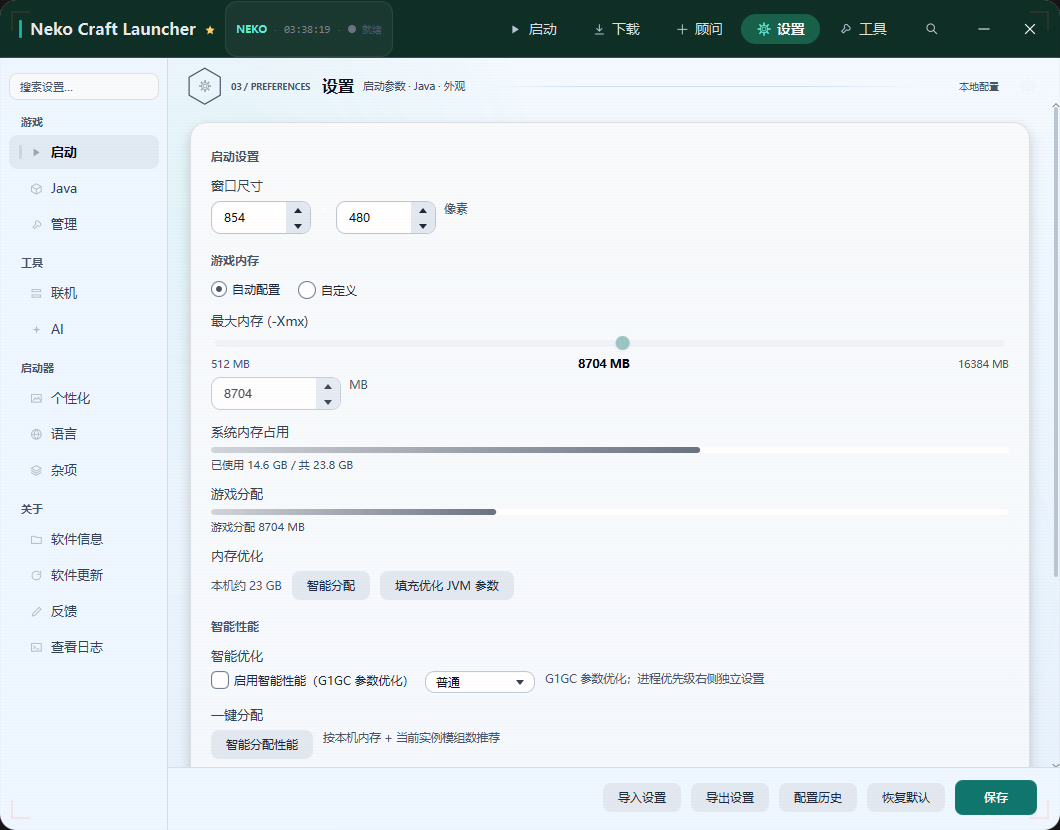
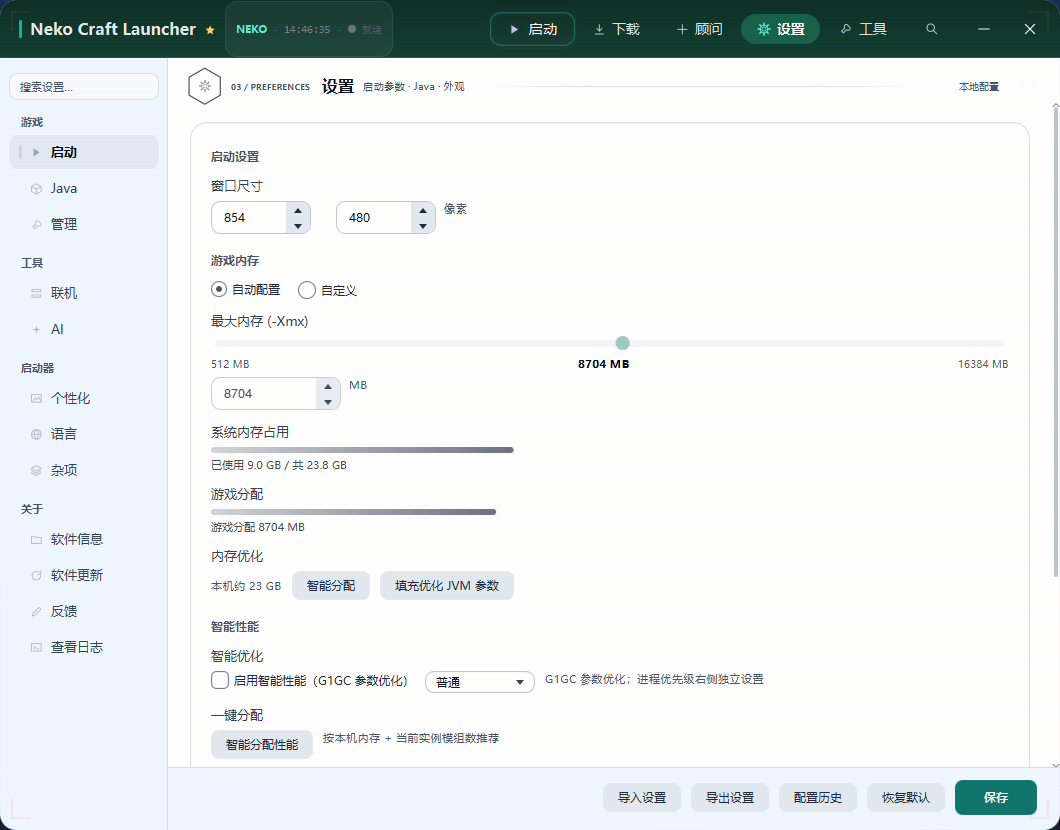
feat(ui): green top bar per theme, launch diagnosis dialog, CI green
- .app-topbar returns to the green family: dark #0b1f1a->#07130f with a #17392e
  edge, light #0e2f26->#123f33 with #1f5a46, so the two themes read differently.
  Brand mark / NEKO badge / clock reverted to the teal trio to match
- crash card now offers 日志 / 诊断 / 报告 (short labels so the narrow card does
  not truncate). 诊断 opens an InAppDialog with CrashAnalyzer's summary, log path
  and suggestion, plus 复制诊断 to put it on the clipboard
- stability: scripts\\ci.ps1 -SkipBuild -Nightly passes end to end (architecture,
  i18n 2225<=2225, smoke 5 pages hover 1272, corners 4/4, nightly baseline 0.00%);
  the baseline was refreshed first because the top bar recolour is intentional

332 tests green, AppVersion 2.37.0, installer rebuilt.

diff --git a/src/main/resources/com/example/demo/app.css b/src/main/resources/com/example/demo/app.css
@@ -499,9 +499,9 @@
 }
 /* 顶部标题栏：始终深色（含浅色模式），所以单独写死 */
 .app-topbar {
-    -fx-background-color: linear-gradient(to bottom, #b91c1c, #8f1220);
+    -fx-background-color: linear-gradient(to bottom, #0b1f1a, #07130f);
     -fx-background-radius: 16 16 0 0;
-    -fx-border-color: transparent transparent #7f1d1d transparent;
+    -fx-border-color: transparent transparent #17392e transparent;
 }
 /* 对话框：跟随主题，避免深色界面里出现白色按钮区 */
 .dialog-pane {

diff --git a/src/main/resources/com/example/demo/app-light.css b/src/main/resources/com/example/demo/app-light.css
@@ -68,9 +68,9 @@
 
 /* 顶栏始终深色 */
 .app-topbar {
-    -fx-background-color: linear-gradient(to bottom, #c62828, #991b1b);
+    -fx-background-color: linear-gradient(to bottom, #0e2f26, #123f33);
     -fx-background-radius: 16 16 0 0;
-    -fx-border-color: transparent transparent #7f1d1d transparent;
+    -fx-border-color: transparent transparent #1f5a46 transparent;
 }
 
 .text-field,

diff --git a/src/main/java/com/example/demo/ui/component/LaunchOverviewPane.java b/src/main/java/com/example/demo/ui/component/LaunchOverviewPane.java
@@ -102,10 +102,10 @@ public final class LaunchOverviewPane extends VBox {
         VBox statCard = card("运行环境", envHead, envJava, envMemory, envDisk, fixEnvButton);
         lastReason.setStyle("-fx-text-fill: #ef4444; -fx-font-size: 11px;");
         lastReason.setWrapText(true);
-        Button openLogsBtn = new Button(I18n.t("overview.openLogs", "查看日志"));
+        Button openLogsBtn = new Button(I18n.t("overview.openLogs", "日志"));
         openLogsBtn.getStyleClass().addAll("btn-ghost", "btn-sm");
         openLogsBtn.setOnAction(e -> openLogs.run());
-        Button openCrash = new Button(I18n.t("overview.openCrash", "崩溃报告"));
+        Button openCrash = new Button(I18n.t("overview.openCrash", "报告"));
         openCrash.getStyleClass().addAll("btn-ghost", "btn-sm");
         openCrash.setOnAction(e -> {
             try {
@@ -118,7 +118,10 @@ public final class LaunchOverviewPane extends VBox {
                 // 打不开就忽略
             }
         });
-        failActions.getChildren().setAll(openLogsBtn, openCrash);
+        Button diagnose = new Button(I18n.t("overview.diagnose", "诊断"));
+        diagnose.getStyleClass().addAll("btn-secondary", "btn-sm");
+        diagnose.setOnAction(e -> showDiagnosis());
+        failActions.getChildren().setAll(openLogsBtn, diagnose, openCrash);
         failActions.setVisible(false);
         failActions.setManaged(false);
         lastReason.setMaxWidth(210);
@@ -460,6 +463,45 @@ public final class LaunchOverviewPane extends VBox {
         com.example.demo.ui.shell.Toast.ok(I18n.t("overview.env.fixed", "已把内存调到 ") + target + " MB");
     }
 
+    /** 启动报错检测：把崩溃报告里的结论整理成一份可复制的诊断。 */
+    private void showDiagnosis() {
+        File gameDir = new File(config.getGameDir());
+        String text;
+        try {
+            com.example.demo.core.game.CrashAnalyzer.Report report =
+                    com.example.demo.core.game.CrashAnalyzer.analyze(gameDir);
+            text = report == null ? "没有找到崩溃报告。" : com.example.demo.core.game.CrashAnalyzer.toText(report);
+        } catch (Exception e) {
+            text = "读取崩溃报告失败：" + e.getMessage();
+        }
+        javafx.scene.control.TextArea area = new javafx.scene.control.TextArea(text);
+        area.setEditable(false);
+        area.setWrapText(true);
+        area.setPrefRowCount(12);
+        area.setStyle("-fx-font-family: 'Consolas','Microsoft YaHei',monospace; -fx-font-size: 11px;");
+        final String diagnosisText = text;
+        javafx.scene.layout.VBox box = new javafx.scene.layout.VBox(8, area);
+        box.setPrefWidth(560);
+        com.example.demo.ui.shell.InAppDialog.customSized(
+                com.example.demo.ui.shell.InAppDialog.globalHost(),
+                I18n.t("overview.diagnoseTitle", "启动报错诊断"),
+                box,
+                java.util.List.of(
+                        com.example.demo.ui.shell.InAppDialog.Action.primary(
+                                I18n.t("overview.diagnoseCopy", "复制诊断"), () -> {
+                                    javafx.scene.input.ClipboardContent content =
+                                            new javafx.scene.input.ClipboardContent();
+                                    content.putString(diagnosisText);
+                                    javafx.scene.input.Clipboard.getSystemClipboard().setContent(content);
+                                    com.example.demo.ui.shell.Toast.ok(
+                                            I18n.t("overview.diagnoseCopied", "诊断已复制到剪贴板"));
+                                }),
+                        com.example.demo.ui.shell.InAppDialog.Action.secondary(
+                                I18n.t("common.close", "关闭"), null)),
+                null,
+                600,
+                420);
+    }
     /** 从崩溃报告里提一句最关键的错误；读不到就返回空。 */
     private String crashReason(File gameDir) {
         try {

diff --git a/src/main/java/com/example/demo/ui/component/TopBar.java b/src/main/java/com/example/demo/ui/component/TopBar.java
@@ -87,7 +87,7 @@ public final class TopBar {
         Rectangle mark = new Rectangle(3.0, 18.0);
         mark.setArcWidth(3.0);
         mark.setArcHeight(3.0);
-        mark.setStyle("-fx-fill: #ffe4e6;");
+        mark.setStyle("-fx-fill: #14b8a6;");
 
         Label appTitle = new Label("Neko Craft Launcher");
         appTitle.setStyle("-fx-font-size: 16px; -fx-font-weight: bold;");
@@ -96,11 +96,11 @@ public final class TopBar {
         appTitle.setMinWidth(Region.USE_PREF_SIZE);
         Label badge = new Label("NEKO");
         badge.setStyle("-fx-font-size: 10.5px; -fx-font-weight: bold;");
-        badge.setTextFill(Color.web("#fecdd3"));
+        badge.setTextFill(Color.web("#5eead4"));
 
         Label liveClock = new Label();
         // 等宽字体优先 Consolas：Cascadia Mono 在部分机器上缺字时会退回到奇怪的字形
-        liveClock.setStyle("-fx-text-fill: #fca5a5; -fx-font-size: 10.5px;"
+        liveClock.setStyle("-fx-text-fill: #7b818b; -fx-font-size: 10.5px;"
                 + " -fx-font-family: 'Consolas', 'Cascadia Mono', monospace;"
                 + " -fx-font-smoothing-type: gray;");
         DateTimeFormatter clockFormat = DateTimeFormatter.ofPattern("HH:mm:ss");

diff --git a/src/main/java/com/example/demo/core/app/AppVersion.java b/src/main/java/com/example/demo/core/app/AppVersion.java
@@ -3,7 +3,7 @@ package com.example.demo.core.app;
 /** 版本号集中定义，安装包 / 关于页 / 更新检查共用。 */
 public final class AppVersion {
 
-    public static final String CURRENT = "2.36.0";
+    public static final String CURRENT = "2.37.0";
 
     private AppVersion() {
     }

diff --git a/docs/RELEASE-2.37.0.md b/docs/RELEASE-2.37.0.md
@@ -1,0 +1,81 @@
+# Neko Craft Launcher 2.37.0
+
+> 顶栏回到原来的绿色系（深色/浅色各一套灰阶），启动报错现在能一键诊断，完整 CI 全绿。
+
+## 安装包
+
+| 文件 | 说明 |
+|---|---|
+| `NekoCraftLauncher-2.37.0.exe` | **安装版**：双击安装，可选目录，开始菜单 + 桌面快捷方式（按用户安装） |
+| `NekoCraftLauncher-2.37.0-win64.zip` | 免安装版，解压双击 `NekoCraftLauncher.exe` |
+| `NekoCraftLauncher-2.37.0-Features.pdf` / `.docx` | 功能预览（图文版） |
+| `SHA256SUMS.txt` / `verify.txt` / `neko-codesign.cer` | 校验与签名材料 |
+
+## 1. 顶栏：回到绿色系，深浅分开
+
+| 主题 | 顶栏 |
+|---|---|
+| 深色 | `#0b1f1a → #07130f`（近黑墨绿），底边 `#17392e` |
+| 浅色 | `#0e2f26 → #123f33`（原来的绿），底边 `#1f5a46` |
+
+品牌竖条 / `NEKO` 徽标 / 时钟也一并回到青绿系（`#14b8a6`、`#5eead4`、`#7b818b`），
+和绿色顶栏同一套配色。两套主题一眼能看出区别：深色更沉，浅色保留原来的绿。
+
+![深色顶栏](images/preview/60-topbar-dark.png)
+
+![浅色顶栏](images/preview/59-topbar-light.png)
+
+## 2. 启动报错检测
+
+![启动报错诊断](images/preview/61-launch-diagnosis.png)
+
+「最近一次启动」异常时给三个按钮：**日志 / 诊断 / 报告**（短标签，窄卡片里也放得下）。
+
+点「诊断」弹出可复制的诊断单：
+
+```
+诊断结论：模组或加载器版本不匹配
+日志：...\game\crash-reports\crash-2026-10-24_20.32.39-client.txt
+
+【模组或加载器版本不匹配】
+运行期找不到方法，常见于 Forge/Fabric 版本不对。
+建议：检查加载器版本与模组要求的版本是否一致。
+```
+
+「复制诊断」一键进剪贴板，直接能贴给别人看。
+
+## 3. 稳定性：完整 CI 跑通
+
+`scripts\ci.ps1 -SkipBuild -Nightly`：
+
+| 项目 | 结果 |
+|---|---|
+| 架构守卫 | PASS（core 不引 javafx / ui） |
+| 文案基线 | PASS（2225 ≤ 2225） |
+| 冒烟（5 页 + 悬停 1272 + 弹窗 + 剪贴板） | PASS |
+| 圆角自检 | PASS（4/4） |
+| 夜间基线 | PASS（**0.00%**） |
+
+顶栏换色属于预期设计变更，按 CI 的提示先跑 `refresh-baseline.ps1` 更新基线，再复跑得到 0.00%。
+
+## 4. 一致性
+
+- 三个失败入口统一用 `btn-ghost` / `btn-secondary` + `btn-sm`，与概览其它按钮同级；
+- 诊断弹窗复用 `InAppDialog`，标题/按钮风格与其它弹窗一致；
+- 短标签避免窄卡片里出现「查看…」这种截断。
+
+## 工程质量
+
+- 编译 0 告警；单元测试 **332 项全绿**；文案基线 2225
+- 新增 `overview.diagnose*` 中英文案 4 条
+
+## 校验
+
+```
+b812568c279bfa39f28216c0f473306780feb0820dc07ff296a11820480ce772  NekoCraftLauncher-2.37.0.exe
+c0155ba26f41ac484600c9423a04009f78c0f575bb5e83b41f4666c25eaf210c  NekoCraftLauncher-2.37.0-win64.zip
+99cde65799141e68b84d360ef416125cc26accd8892c7f94353bb24008f33613  NekoCraftLauncher-2.37.0-Features.pdf
+2a85fafb9fb06180f70fe1f48230b6c912510834e1f4de09ec010261516e436a  NekoCraftLauncher-2.37.0-Features.docx
+41bdc7658bd42ee52d59d81ccd541597b7deac9e600715ab23327227a73cdb89  neko-codesign.cer
+3ba86ae0b4e9450e8e675c007c0ede9c2798524bd0dbbe3d8297cf134d712268  verify.txt
+```
